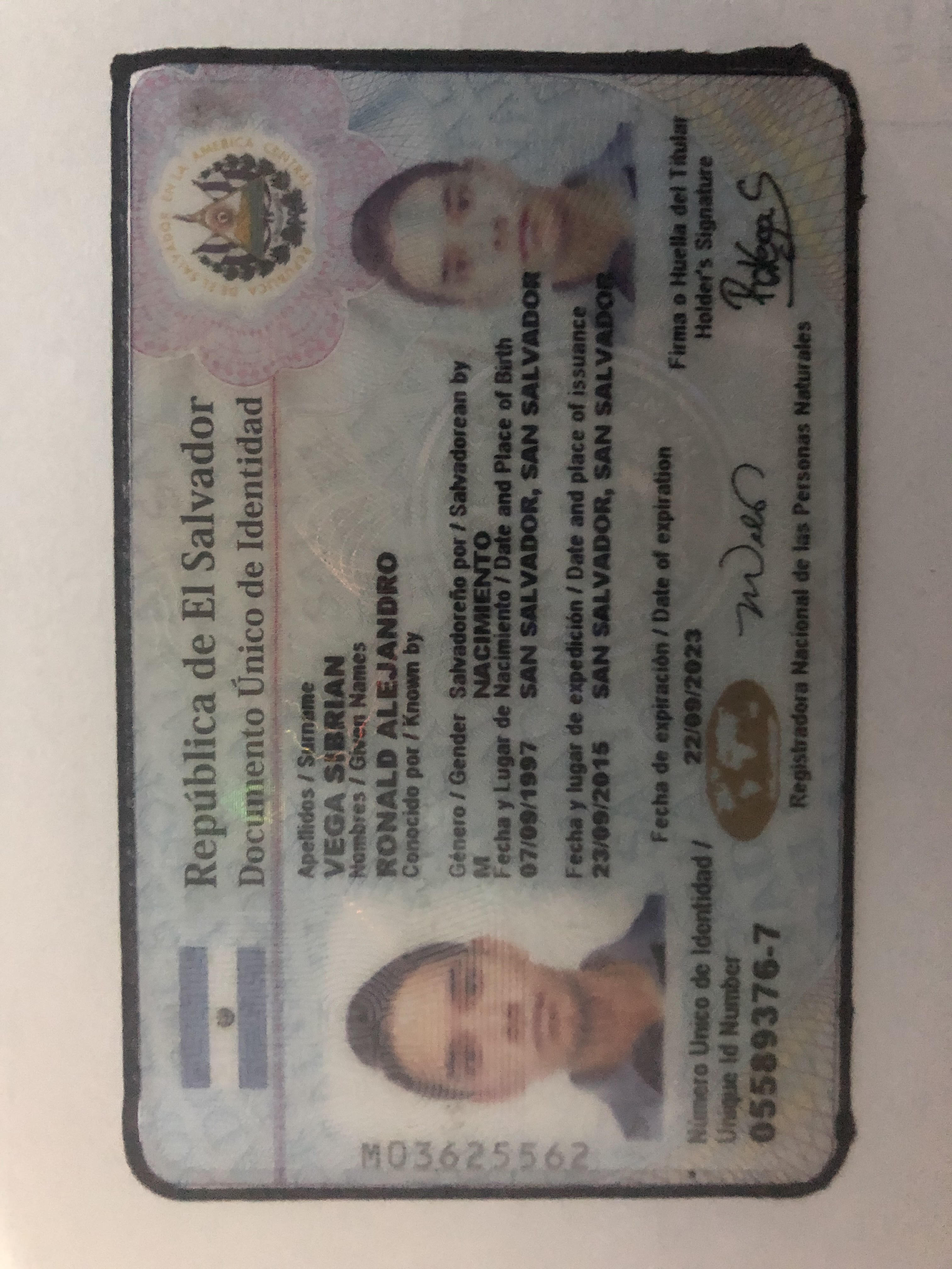
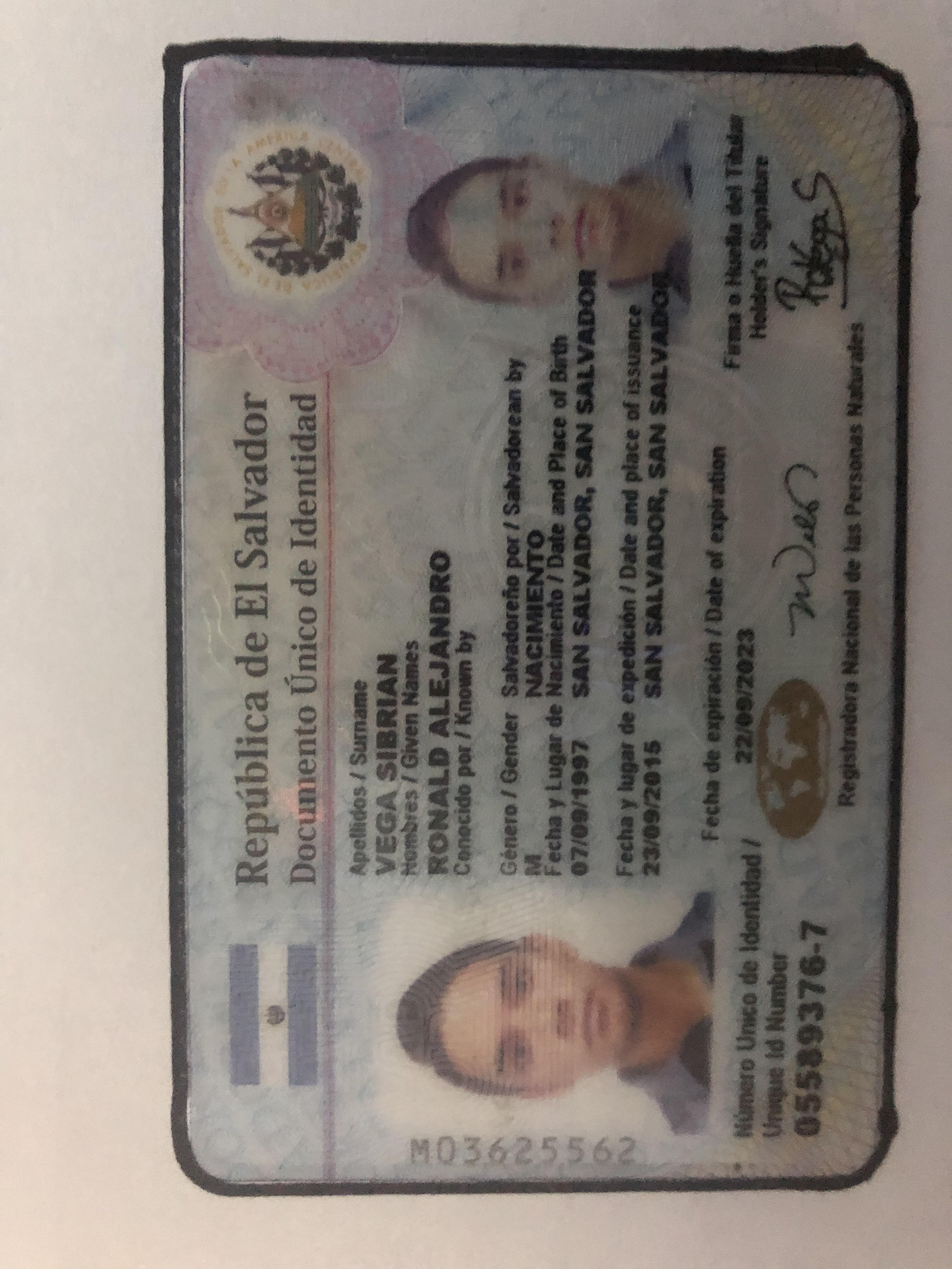
Obteniendo datos para nombres, apellidos y fechas

diff --git a/util/scan.py b/util/scan.py
@@ -47,18 +47,18 @@ def readingFrontWords(imagePath):
     # Dibujamos los contornos en la imagen
     cv2.drawContours(imagef, [screenCntf], -1, (0, 255, 0), 2)
 
-    #Obtenemos una imagen desde arriba del Documento
+    # Obtenemos una imagen desde arriba del Documento
     warpedf = four_point_transform(origf, screenCntf.reshape(4, 2) * ratiof)
     warpedf = warpedf.astype("uint8") * 255
 
     # L o volvemos a hacer de la altura deseada para asegurarnos que la imagen siempre tendra el mismo tamaño
     resizedFront = imutils.resize(warpedf, height=650)
-    resizedFront = rotate_bound(resizedFront, -90)
+    resizedFront = rotate_bound(resizedFront, 90)
     hImg, wImg, _ = resizedFront.shape
     # Cortamos la imagen para obtener solamente la parte con las letras
-    resizedFront = resizedFront[90: hImg - 90, 0: wImg]
+    resizedFront = resizedFront[90: hImg - 110, 170: wImg-40]
     # Utilizamos el OCR para detectar las letras en la imagen
-    frontWords = detector.detectWordsF(imutils.resize(resizedFront, height=650))
+    frontWords = detector.detectWordsF(imutils.resize(resizedFront, height=450))
     # Mostramos las letras con la imagen
     cv2.imshow("Front Words", frontWords)
 
@@ -70,7 +70,7 @@ def readingBackWords(imgPath):
 
     # load the image and compute the ratio of the old height
     # to the new height, clone it, and resize it
-    image = cv2.imread("resources/dui.jpg")
+    image = cv2.imread(imgPath)
     ratio = image.shape[0] / 500.0
     orig = image.copy()
     image = imutils.resize(image, height=500)
@@ -138,7 +138,7 @@ def readingBackWords(imgPath):
     cv2.imshow("Right Words", rightWords)
 
 
-readingFrontWords("resources/dui-front3.jpg")
+readingFrontWords("resources/dui-front2.jpg")
 readingBackWords("resources/dui.jpg")
 cv2.waitKey(0)
 

diff --git a/util/textDetector.py b/util/textDetector.py
@@ -49,14 +49,15 @@ def detectWordsF(img):
     # print('Image Height: ', hImg)
     # print('Image Width: ', wImg)
     conf = "r'--oem 2 --psm 1 -l eng/esp'"
+    wordsAsString = pytesseract.image_to_string(img, config=conf)
     boxes = pytesseract.image_to_data(img, config=conf)
 # This prints the information of every string
-#     print(boxes)
+    print(wordsAsString)
     for x, b in enumerate(boxes.splitlines()):
         if x != 0:
             b = b.split()
             if len(b) == 12:
-                print(b)
+                # print(b)
                 x, y, w, h = int(b[6]), int(b[7]), int(b[8]), int(b[9])
                 cv2.rectangle(img, (x, y), (w+x, h+y), (0, 0, 255), 2)
                 cv2.putText(img, b[11], (x, y), cv2.FONT_HERSHEY_COMPLEX, 1, (50, 50, 255), 2)
